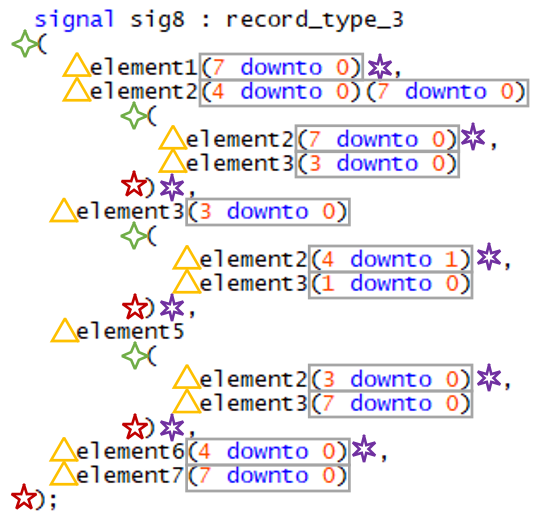
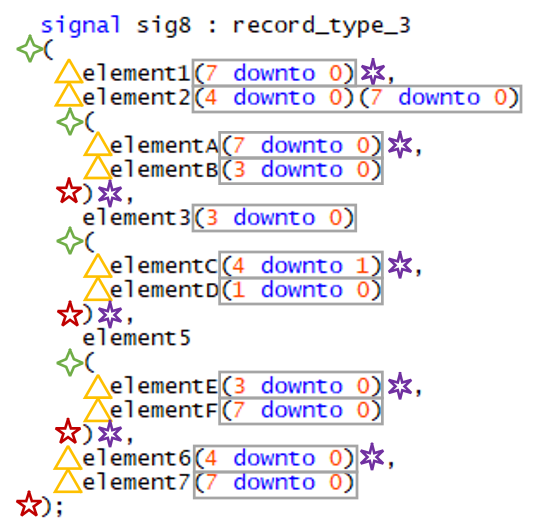
Updated figure with correct indenting. Fixed indenting in example 2.

diff --git a/docs/configuring_multiline_constraint_rules.rst b/docs/configuring_multiline_constraint_rules.rst
@@ -55,76 +55,25 @@ There are several options to the structure rules:
 .. |one_line_per_dimension| replace::
    The setting "one_line_per_dimension" will place each dimension on it's own line
 
-+-------------------------------+--------------------+-----------+------------------------+----------------------------+
-| Option                        | Symbol             | Values    | Structural Element     | Description                |
-+===============================+====================+===========+========================+============================+
-| record_constraint_open_paren  | |green_diamond|    | |values|  | opening parenthesis    | * |add_new_line|           |
-+-------------------------------+--------------------+-----------+------------------------+ * |remove_new_line|        |
-| record_constraint_close_paren | |red_penta_star|   | |values|  | closing parenthesis    | * |ignore|                 |
-+-------------------------------+--------------------+-----------+------------------------+                            |
-| record_constraint_comma       | |purple_hexa_star| | |values2| | comma                  |                            |
-+-------------------------------+--------------------+-----------+------------------------+                            |
-| record_constraint_element     | |orange_triangle|  | |values|  | new element            |                            |
-+-------------------------------+--------------------+-----------+------------------------+----------------------------+
-| array_constraint              | |grey_box|         | |values3| | array range indication | * |all_in_one_line|        |
-|                               |                    |           |                        | * |one_line_per_dimension| |
-|                               |                    |           |                        | * |ignore|                 |
-+-------------------------------+--------------------+-----------+------------------------+----------------------------+
-
-.. other table:
-.. 
-.. +-------------------------------+---------+-----------------+------------------+------------------------+
-.. | Option                        |  Type   | Default         | Symbol           | structural element     |
-.. +===============================+=========+=================+==================+========================+
-.. | record_constraint_open_paren  | string  | add_new_line    | green diamond    | opening parenthesis    |
-.. +-------------------------------+---------+-----------------+------------------+------------------------+
-.. | record_constraint_close_paren | string  | add_new_line    | red penta-star   | closing_parenthesis    |
-.. +-------------------------------+---------+-----------------+------------------+------------------------+
-.. | record_constraint_comma       | string  | remove_new_line | purple hexa-star | comma                  |
-.. +-------------------------------+---------+-----------------+------------------+------------------------+
-.. | record_constraint_element     | string  | add_new_line    | orange triangle  | new element            |
-.. +-------------------------------+---------+-----------------+------------------+------------------------+
-.. | array_constraint              | string  | all_in_one_line | grey box         | array range indication |
-.. +-------------------------------+---------+-----------------+------------------+------------------------+
++---------------------------------------+--------------------+-----------+------------------------+----------------------------+
+| Option                                | Symbol             | Values    | Structural Element     | Description                |
++=======================================+====================+===========+========================+============================+
+| :code:`record_constraint_open_paren`  | |green_diamond|    | |values|  | opening parenthesis    | * |add_new_line|           |
++---------------------------------------+--------------------+-----------+------------------------+ * |remove_new_line|        |
+| :code:`record_constraint_close_paren` | |red_penta_star|   | |values|  | closing parenthesis    | * |ignore|                 |
++---------------------------------------+--------------------+-----------+------------------------+                            |
+| :code:`record_constraint_comma`       | |purple_hexa_star| | |values2| | comma                  |                            |
++---------------------------------------+--------------------+-----------+------------------------+                            |
+| :code:`record_constraint_element`     | |orange_triangle|  | |values|  | new element            |                            |
++---------------------------------------+--------------------+-----------+------------------------+----------------------------+
+| :code:`array_constraint`              | |grey_box|         | |values3| | array range indication | * |all_in_one_line|        |
+|                                       |                    |           |                        | * |one_line_per_dimension| |
+|                                       |                    |           |                        | * |ignore|                 |
++---------------------------------------+--------------------+-----------+------------------------+----------------------------+
 
 The following figure illustrates a multiline constraint and where the options will be applied.
 
 .. image:: img/constraints_code.png
-
-.. The options :code:`record_constraint_open_paren`, :code:`record_constraint_close_paren`, and :code:`record_constraint_element` allow for three values:
-.. 
-.. +----------------------+--------------------------------------------------------------------+
-.. | Option Value         | Action                                                             |
-.. +======================+====================================================================+
-.. | add_new_line         | Adds a carriage return before the structural element.              |
-.. +----------------------+--------------------------------------------------------------------+
-.. | remove_new_line      | Removes whitespace and carriage returns before structural element. |
-.. +----------------------+--------------------------------------------------------------------+
-.. | ignore               | Disables the option and no formatting checks will be performed.    |
-.. +----------------------+--------------------------------------------------------------------+
-.. 
-.. The option :code:`record_constraint_comma` allows for two values:
-.. 
-.. +----------------------+--------------------------------------------------------------------+
-.. | Option Value         | Action                                                             |
-.. +======================+====================================================================+
-.. | remove_new_line      | Removes whitespace and carriage returns before structural element. |
-.. +----------------------+--------------------------------------------------------------------+
-.. | ignore               | Disables the option and no formatting checks will be performed.    |
-.. +----------------------+--------------------------------------------------------------------+
-.. 
-.. The :code:`array_constraint` option allows the following values:
-.. 
-.. +------------------------+--------------------------------------------------------------------+
-.. | Option Value           | Action                                                             |
-.. +========================+====================================================================+
-.. | all_in_one_line        | Combine array_constraint into a single line.                       |
-.. +------------------------+--------------------------------------------------------------------+
-.. | one_line_per_dimension | Place each dimension on it's own line.                             |
-.. +------------------------+--------------------------------------------------------------------+
-.. | ignore                 | Disables the option and no formatting checks will be performed.    |
-.. +------------------------+--------------------------------------------------------------------+
-
 
 The following configuration replicates the above code snippet.
 
@@ -140,10 +89,10 @@ The following configuration replicates the above code snippet.
 
 .. NOTE:: All examples use the above configuration.
 
-Example: record_constraint_open_paren set to 'remove_new_line'
-##############################################################
+Example: :code:`record_constraint_open_paren` set to :code:`remove_new_line`
+############################################################################
 
-Setting the `record_constraint_open_paren` option to `remove_new_line` will result in the following formatting:
+Setting the :code:`record_constraint_open_paren` option to :code:`remove_new_line` will result in the following formatting:
 
 .. code-block:: vhdl
 
@@ -165,10 +114,10 @@ Setting the `record_constraint_open_paren` option to `remove_new_line` will resu
      element7(7 downto 0)
    );
 
-Example: record_constraint_close_paren set to 'remove_new_line'
-###############################################################
+Example: :code:`record_constraint_close_paren` set to :code:`remove_new_line`
+#############################################################################
 
-Setting the `record_constraint_close_paren` option to `remove_new_line` will result in the following formatting:
+Setting the :code:`record_constraint_close_paren` option to :code:`remove_new_line` will result in the following formatting:
 
 .. code-block:: vhdl
 
@@ -176,24 +125,24 @@ Setting the `record_constraint_close_paren` option to `remove_new_line` will res
    (
      element1(7 downto 0),
      element2(4 downto 0)(7 downto 0)
-       (
-         elementA(7 downto 0),
-         elementB(3 downto 0)),
+     (
+       elementA(7 downto 0),
+       elementB(3 downto 0)),
      element3(3 downto 0)
-       (
-         elementC(4 downto 1),
-         elementD(1 downto 0)),
+     (
+       elementC(4 downto 1),
+       elementD(1 downto 0)),
      element5
-       (
-         elementE(3 downto 0),
-         elementF(7 downto 0)),
+     (
+       elementE(3 downto 0),
+       elementF(7 downto 0)),
      element6(4 downto 0),
      element7(7 downto 0));
 
-Example: record_constraint_element set to 'remove_new_line'
-###########################################################
+Example: :code:`record_constraint_element` set to :code:`remove_new_line`
+#########################################################################
 
-Setting the `record_constraint_element` option to `remove_new_line` will result in the following formatting:
+Setting the :code:`record_constraint_element` option to :code:`remove_new_line` will result in the following formatting:
 
 .. code-block:: vhdl
 
@@ -207,10 +156,10 @@ Setting the `record_constraint_element` option to `remove_new_line` will result 
        ), element6(4 downto 0), element7(7 downto 0)
    );
 
-Example: array_constraint set to 'one_line_per_dimension'
-#########################################################
+Example: :code:`array_constraint` set to :code:`one_line_per_dimension`
+#######################################################################
 
-Setting the `array_constraint` option to `one_line_per_dimension` will result in the following formatting:
+Setting the :code:`array_constraint` option to :code:`one_line_per_dimension` will result in the following formatting:
 
 .. code-block:: vhdl
 
